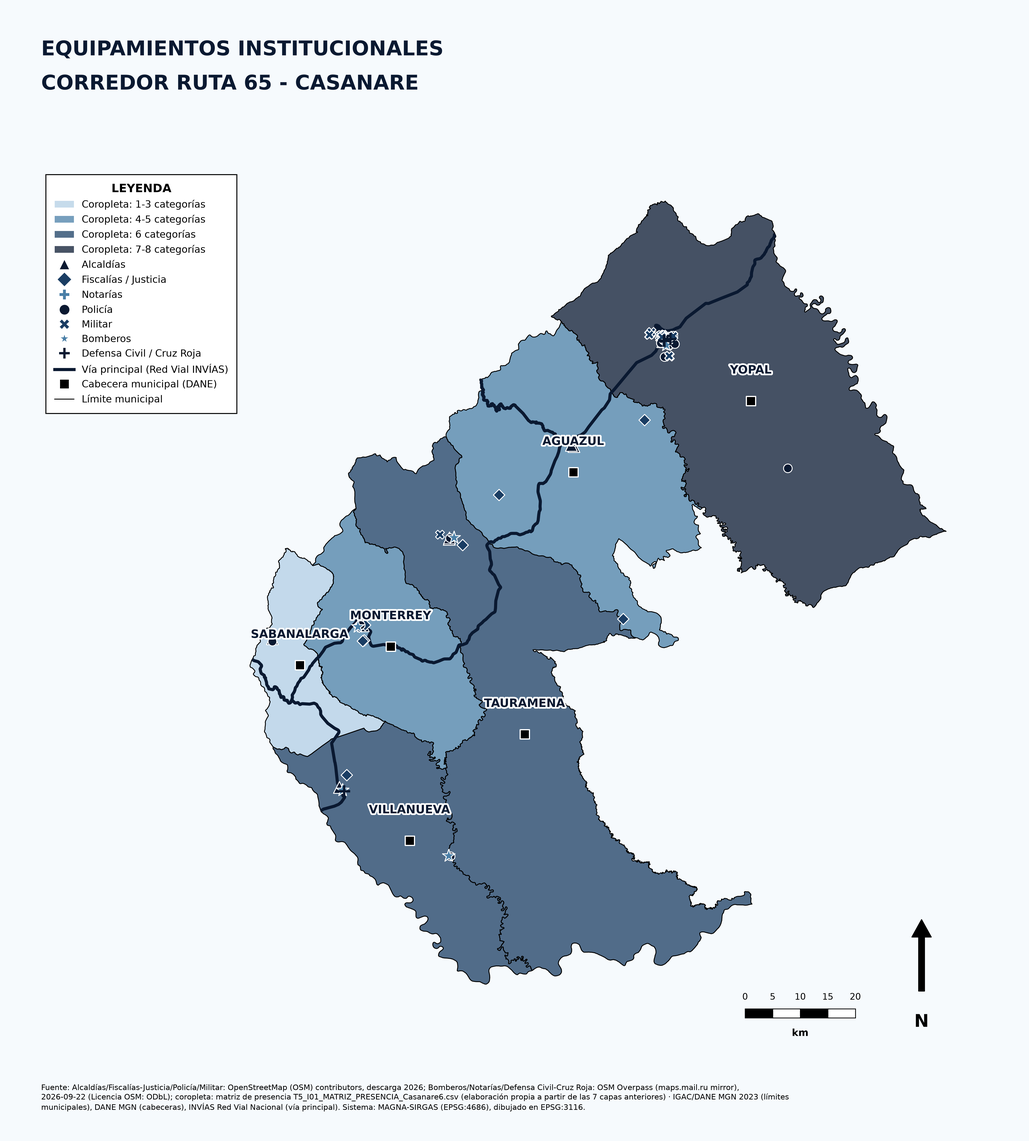
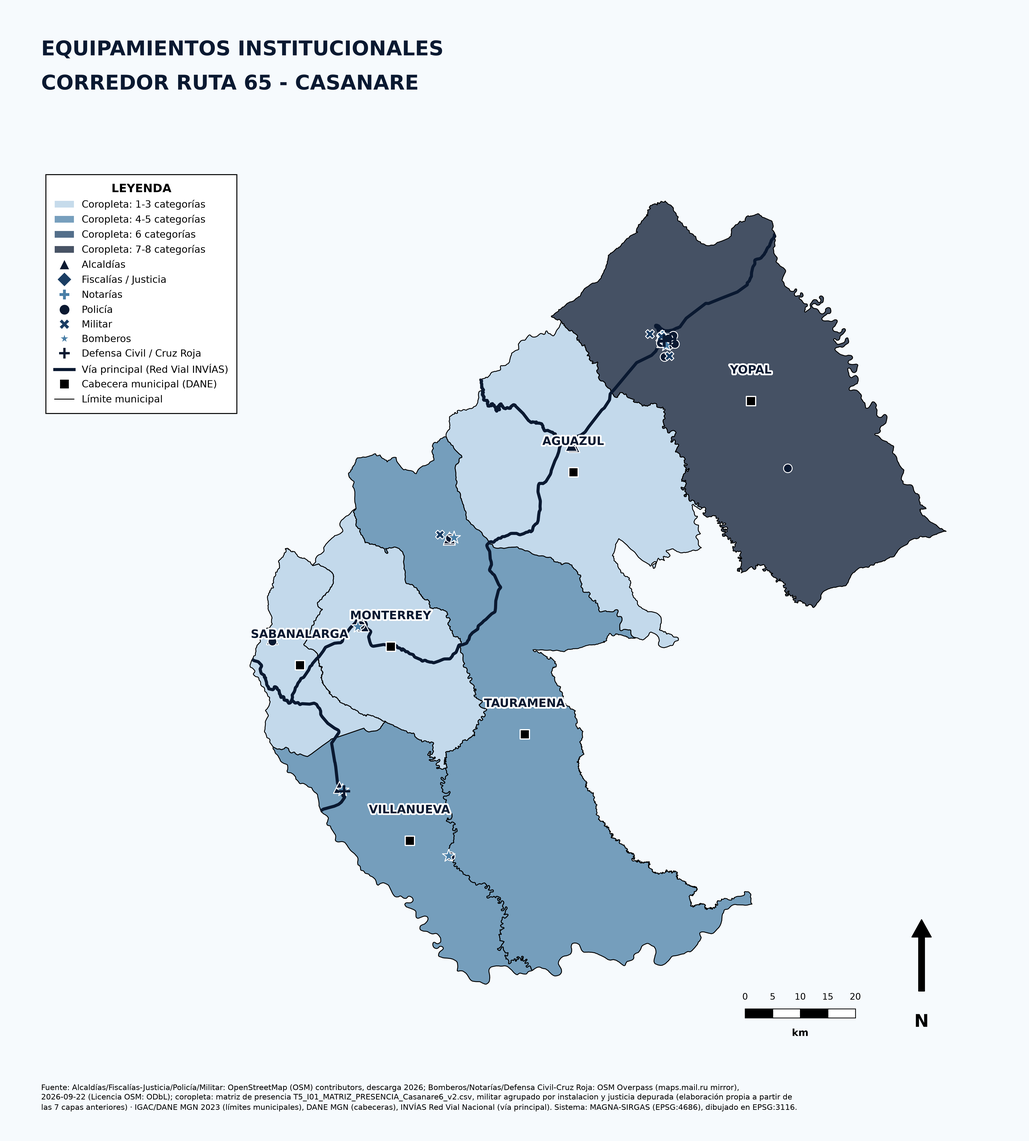
Depura terminales, militar y justicia en la lámina 05 y recalcula el índice de presencia

Changed region(s): [[0.2486, 0.2799, 0.7459, 0.8707], [0.6216, 0.2799, 0.6527, 0.311]]

diff --git a/index.html b/index.html
@@ -983,7 +983,7 @@ html,body{max-width:100%;overflow-x:clip}
       <div class="lamina-title">
         <span class="label">Lámina 05 · Índice de presencia · 8 categorías</span>
         <h2 id="t5-h">Equipamientos Institucionales</h2>
-        <p class="lamina-lede">Yopal es el único municipio con las 8 categorías institucionales; Aguazul, segunda población del corredor, no tiene bomberos, notaría, Defensa Civil ni presencia militar mapeada.</p>
+        <p class="lamina-lede">Yopal es el único municipio con las 8 categorías institucionales; solo Yopal tiene sedes de justicia mapeadas y solo Yopal y Aguazul tienen terminal terrestre; Aguazul, segunda población del corredor, no tiene justicia, bomberos, notaría, Defensa Civil ni presencia militar mapeada.</p>
       </div>
       <div class="north" aria-hidden="true"><svg viewBox="0 0 34 46" fill="none" stroke="currentColor" stroke-width="1.2"><circle cx="17" cy="28" r="14"/><path d="M17 6 L24 34 L17 29 L10 34 Z" fill="currentColor" stroke="none" opacity=".15"/><path d="M17 6 L24 34 L17 29 Z" fill="currentColor"/><path d="M17 6 L10 34 L17 29 Z"/><path d="M17 12v32M3 28h28" stroke-width=".6" stroke-dasharray="2 2"/></svg><span>N</span></div>
       <div class="lamina-num" aria-label="Lámina 5 de 8"><span class="ln-k">LÁMINA · CÓDIGO</span><span class="ln-n">05</span><span class="ln-c"><b>PL.05</b><span>RUTA65-CAS</span><span>/ 08</span></span></div>
@@ -992,8 +992,8 @@ html,body{max-width:100%;overflow-x:clip}
     <div class="lamina-body">
       <figure class="plate plate--map">
         <div class="plate-tag"><span class="label">Mapa · Equipamientos institucionales</span><span class="code">M-05</span></div>
-        <div class="plate-img"><img src="mapas/Institucional.png" width="4440" height="4920" alt="Mapa de equipamientos institucionales" loading="lazy"></div>
-        <figcaption>Alcaldías, justicia, policía, bomberos, militar y terminales</figcaption>
+        <div class="plate-img"><img src="mapas/Institucional.png?v=2" width="4440" height="4920" alt="Mapa de equipamientos institucionales" loading="lazy"></div>
+        <figcaption>Alcaldías, justicia, policía, bomberos y militar (por instalación); coropleta con 8 categorías</figcaption>
       </figure>
 
       <aside class="lamina-side">
@@ -1003,15 +1003,16 @@ html,body{max-width:100%;overflow-x:clip}
             <span class="stat-val">1.00</span>
             <span class="stat-lbl"><b>Yopal:</b> índice de presencia institucional (0 a 1) — tiene <b>las 8 de 8 categorías</b> = 8 ÷ 8</span>
           </div>
-          <div class="stat"><span class="stat-val">0.50</span><span class="stat-lbl"><b>Aguazul:</b> índice de presencia (0 a 1) — 4 de 8 categorías</span></div>
-          <div class="stat"><span class="stat-val">0.38</span><span class="stat-lbl"><b>Sabanalarga:</b> índice de presencia (0 a 1) — 3 de 8 categorías</span></div>
+          <div class="stat"><span class="stat-val">0.38</span><span class="stat-lbl"><b>Aguazul:</b> índice de presencia (0 a 1) — 3 de 8 categorías</span></div>
+          <div class="stat"><span class="stat-val">0.25</span><span class="stat-lbl"><b>Sabanalarga:</b> índice de presencia (0 a 1) — 2 de 8 categorías</span></div>
           <div class="stat stat--wide"><span class="stat-lbl">Notaría georreferenciada en todo el corredor</span><span class="stat-val">1</span></div>
         </div>
         <div class="notes-block">
           <span class="label">Hallazgos</span>
           <ul class="notes">
-            <li>Sabanalarga solo tiene alcaldía, policía y terminal.</li>
-            <li>Villanueva y Tauramena comparten el segundo lugar (0.75, 6 categorías).</li>
+            <li>Sabanalarga solo tiene alcaldía y policía.</li>
+            <li>Villanueva y Tauramena comparten el segundo lugar (0.50, 4 categorías).</li>
+            <li>Terminales: 3 terrestres (Yopal 2, Aguazul 1) tras depurar 33 registros OSM; los 27 aeródromos y pistas quedan fuera de la matriz. Militar: 4 instalaciones (Yopal 3), no 29 geometrías. Justicia: 3 sedes (todas en Yopal); los otros 31 registros OSM eran restaurantes, tiendas naturistas, colegios, etc.</li>
           </ul>
         </div>
       </aside>
@@ -1020,7 +1021,7 @@ html,body{max-width:100%;overflow-x:clip}
         <div class="plate-tag"><span class="label">Gráfica · Presencia institucional</span><span class="code">G-05</span></div>
         <div class="plate-charts" data-set="institucional">
         <div class="chart-panel chart-panel--tall"><h3 class="chart-title">Equipamientos por municipio y tipo (apilado)</h3><div class="chart-box"><canvas id="c-i1" role="img" aria-label="Equipamientos por municipio y tipo (apilado)"></canvas></div></div>
-        <div class="chart-panel chart-panel--tall"><h3 class="chart-title">Composición por tipo — total corredor (n=131)</h3><div class="chart-box"><canvas id="c-i2" role="img" aria-label="Composición por tipo — total corredor (n=131)"></canvas></div></div>
+        <div class="chart-panel chart-panel--tall"><h3 class="chart-title">Composición por tipo — total corredor (n=45)</h3><div class="chart-box"><canvas id="c-i2" role="img" aria-label="Composición por tipo — total corredor (n=45)"></canvas></div></div>
         <div class="chart-panel chart-panel--matrix"><h3 class="chart-title">Matriz de presencia/ausencia por tipo</h3><div class="chart-matrix" id="c-i3"></div></div>
         <div class="chart-panel"><h3 class="chart-title">Índice de presencia por municipio (8 categorías)</h3><div class="chart-box"><canvas id="c-i4" role="img" aria-label="Índice de presencia por municipio (8 categorías)"></canvas></div></div>
         </div>
@@ -1076,7 +1077,7 @@ html,body{max-width:100%;overflow-x:clip}
           <div class="stat"><span class="stat-val">2.753</span><span class="stat-lbl">Siniestros: 637 con fallecidos, 2.116 con lesionados</span></div>
           <div class="stat"><span class="stat-val">57 %</span><span class="stat-lbl">De los siniestros, en Yopal</span></div>
           <div class="stat stat--wide"><span class="stat-lbl">Tramos de 1 km hot spot (Getis-Ord)</span><span class="stat-val">0 de 244</span></div>
-          <div class="stat stat--wide"><span class="stat-lbl">Aeródromos Aerocivil · terminales</span><span class="stat-val">2 · 33</span></div>
+          <div class="stat stat--wide"><span class="stat-lbl">Aeródromos Aerocivil · terminales terrestres</span><span class="stat-val">2 · 3</span></div>
         </div>
         <div class="notes-block">
           <span class="label">Hallazgos</span>
@@ -1330,10 +1331,10 @@ html,body{max-width:100%;overflow-x:clip}
       <h3 class="refs-h3" id="rf-6">05 · Equipamientos Institucionales</h3>
       <div class="rf-scroll" role="region" tabindex="0" aria-label="Tabla de fuentes: 05 · Equipamientos Institucionales"><table class="rf-table">
         <thead><tr><th scope="col">Dato / capa</th><th scope="col">Fuente (organismo)</th><th scope="col">Documento o dataset (+ID)</th><th scope="col">Año</th><th scope="col">Enlace</th></tr></thead><tbody>
-        <tr><td>Alcaldías, fiscalías/justicia, policía y militar (M-05, c-i1, c-i2)</td><td>OpenStreetMap contributors (© OpenStreetMap contributors, ODbL)</td><td>Extracción OSM (amenity=townhall/courthouse/police, military=*)</td><td class="rf-y">descarga 2026</td><td class="rf-l"><a href="https://overpass-api.de/" target="_blank" rel="noopener">Overpass API</a><br><a href="https://www.openstreetmap.org/copyright" target="_blank" rel="noopener">© OpenStreetMap contributors</a><br><a href="https://opendatacommons.org/licenses/odbl/" target="_blank" rel="noopener">Licencia ODbL 1.0</a></td></tr>
+        <tr><td>Alcaldías, fiscalías/justicia, policía y militar (M-05, c-i1, c-i2)</td><td>OpenStreetMap contributors (© OpenStreetMap contributors, ODbL)</td><td>Extracción OSM (amenity=townhall/courthouse/police, military=*); militar agrupado en 4 instalaciones (29 geometrías OSM); justicia depurada a 3 sedes amenity=courthouse (34 registros)</td><td class="rf-y">descarga 2026</td><td class="rf-l"><a href="https://overpass-api.de/" target="_blank" rel="noopener">Overpass API</a><br><a href="https://www.openstreetmap.org/copyright" target="_blank" rel="noopener">© OpenStreetMap contributors</a><br><a href="https://opendatacommons.org/licenses/odbl/" target="_blank" rel="noopener">Licencia ODbL 1.0</a></td></tr>
         <tr><td>Bomberos, notarías (1 en el corredor), Defensa Civil/Cruz Roja</td><td>OpenStreetMap contributors (© OpenStreetMap contributors, ODbL)</td><td>Overpass API, mirror maps.mail.ru</td><td class="rf-y">2026-09-22</td><td class="rf-l"><a href="https://overpass-api.de/" target="_blank" rel="noopener">Overpass API</a><br><a href="https://www.openstreetmap.org/copyright" target="_blank" rel="noopener">© OpenStreetMap contributors</a><br><a href="https://opendatacommons.org/licenses/odbl/" target="_blank" rel="noopener">Licencia ODbL 1.0</a></td></tr>
-        <tr><td>Terminales de transporte (33)</td><td>OpenStreetMap contributors (© OpenStreetMap contributors, ODbL)</td><td>INFRA_TRANSPORTE_OSM_Casanare6.shp (Overpass)</td><td class="rf-y">2026</td><td class="rf-l"><a href="https://overpass-api.de/" target="_blank" rel="noopener">Overpass API</a><br><a href="https://www.openstreetmap.org/copyright" target="_blank" rel="noopener">© OpenStreetMap contributors</a></td></tr>
-        <tr><td>c-i3 matriz de presencia y c-i4 índice (Yopal 1.00; Sabanalarga 0.38)</td><td>Elaboración propia</td><td>T5_I01_MATRIZ_PRESENCIA_Casanare6.csv sobre las 8 capas anteriores</td><td class="rf-y">2026</td><td class="rf-l"><span class="rf-nd">sin enlace</span></td></tr>
+        <tr><td>Terminales de transporte terrestre (3 instalaciones, depuradas de 33 registros OSM: 27 aeródromos/pistas excluidos y 6 puntos terrestres fusionados a &lt;300 m)</td><td>OpenStreetMap contributors (© OpenStreetMap contributors, ODbL)</td><td>INFRA_TRANSPORTE_OSM_Casanare6.shp (Overpass)</td><td class="rf-y">2026</td><td class="rf-l"><a href="https://overpass-api.de/" target="_blank" rel="noopener">Overpass API</a><br><a href="https://www.openstreetmap.org/copyright" target="_blank" rel="noopener">© OpenStreetMap contributors</a></td></tr>
+        <tr><td>c-i3 matriz de presencia y c-i4 índice (Yopal 1.00; Sabanalarga 0.25)</td><td>Elaboración propia</td><td>T5_I01_MATRIZ_PRESENCIA_Casanare6_v2.csv sobre las 8 capas anteriores</td><td class="rf-y">2026</td><td class="rf-l"><span class="rf-nd">sin enlace</span></td></tr>
       </tbody></table></div>
       <h3 class="refs-h3" id="rf-7">06 · Transporte</h3>
       <div class="rf-scroll" role="region" tabindex="0" aria-label="Tabla de fuentes: 06 · Transporte"><table class="rf-table">
@@ -1341,7 +1342,7 @@ html,body{max-width:100%;overflow-x:clip}
         <tr><td>Mapa M-06, c-t1, c-t2, c-t3: 2.753 siniestros (637 con fallecidos; −67 % 2019→2025; 57 % en Yopal)</td><td>Agencia Nacional de Seguridad Vial (ANSV) – Observatorio Nacional de Seguridad Vial</td><td>Feature Service «Siniestros_ML_2016_2025», capa 1 (cuenta ArcGIS Online onsv.ansv), filtrado por DIVIPOLA</td><td class="rf-y">2016–2025/26 · consulta 2026-09-22</td><td class="rf-l"><a href="https://services9.arcgis.com/cCK0fP0sWCjveNe8/arcgis/rest/services/Siniestros_ML_2016_2025/FeatureServer/1" target="_blank" rel="noopener">Siniestros_ML_2016_2025 / FeatureServer/1</a><br><a href="https://www.arcgis.com/sharing/rest/search?q=owner:onsv.ansv&amp;f=json" target="_blank" rel="noopener">Catálogo ArcGIS Online onsv.ansv</a></td></tr>
         <tr><td>Tramos hot spot: 0 de 244 (Getis-Ord Gi*)</td><td>Elaboración propia</td><td>Getis-Ord Gi* con PySAL esda sobre tramos de 1 km de la vía INVÍAS</td><td class="rf-y">2026</td><td class="rf-l"><a href="https://pysal.org/esda/" target="_blank" rel="noopener">PySAL esda (Getis-Ord Gi*)</a></td></tr>
         <tr><td>Aeródromos Aerocivil (2)</td><td>Aerocivil + OpenStreetMap contributors (© OpenStreetMap contributors, ODbL)</td><td>Transporte Aéreo Comercial – Tráfico Origen-Destino (ID gb6w-ynu4) para identidad OACI/IATA; geometría OSM</td><td class="rf-y">2020–2026</td><td class="rf-l"><a href="https://www.datos.gov.co/d/gb6w-ynu4" target="_blank" rel="noopener">datos.gov.co/d/gb6w-ynu4</a><br><a href="https://www.openstreetmap.org/copyright" target="_blank" rel="noopener">© OpenStreetMap contributors</a></td></tr>
-        <tr><td>Terminales / puntos de transporte (33)</td><td>OpenStreetMap contributors (© OpenStreetMap contributors, ODbL)</td><td>INFRA_TRANSPORTE_OSM_Casanare6.shp</td><td class="rf-y">2026</td><td class="rf-l"><a href="https://overpass-api.de/" target="_blank" rel="noopener">Overpass API</a><br><a href="https://www.openstreetmap.org/copyright" target="_blank" rel="noopener">© OpenStreetMap contributors</a><br><a href="https://opendatacommons.org/licenses/odbl/" target="_blank" rel="noopener">Licencia ODbL 1.0</a></td></tr>
+        <tr><td>Puntos de transporte OSM (33: 27 aeródromos/pistas + 6 registros de 3 terminales terrestres)</td><td>OpenStreetMap contributors (© OpenStreetMap contributors, ODbL)</td><td>INFRA_TRANSPORTE_OSM_Casanare6.shp</td><td class="rf-y">2026</td><td class="rf-l"><a href="https://overpass-api.de/" target="_blank" rel="noopener">Overpass API</a><br><a href="https://www.openstreetmap.org/copyright" target="_blank" rel="noopener">© OpenStreetMap contributors</a><br><a href="https://opendatacommons.org/licenses/odbl/" target="_blank" rel="noopener">Licencia ODbL 1.0</a></td></tr>
         <tr><td>c-t4 distancias entre cabeceras (18.6–157.4 km)</td><td>Elaboración propia sobre INVÍAS + DANE</td><td>MATRIZ_OD_NODOS_Casanare6.csv: ruta más corta (networkx) sobre Red Vial INVÍAS, 60 km/h supuesto; nodos DANE Divipola (ver advertencia)</td><td class="rf-y">2026</td><td class="rf-l"><a href="https://hermes.invias.gov.co/arcgis/rest/services/OpenData/ServiciosOpenData/FeatureServer/0" target="_blank" rel="noopener">INVÍAS OpenData/ServiciosOpenData FeatureServer/0</a><br><a href="https://geoportal.dane.gov.co/servicios/descarga-y-metadatos/datos-geoestadisticos/" target="_blank" rel="noopener">Geoportal DANE · datos geoestadísticos (MGN)</a></td></tr>
       </tbody></table></div>
       <h3 class="refs-h3" id="rf-8">07 · Vías</h3>
@@ -1422,7 +1423,7 @@ html,body{max-width:100%;overflow-x:clip}
    de ENTREGA_25_SEP_2026 (ver hacer_graficas.py de cada carpeta). */
 (function(){
   if(!window.Chart) return;
-  var DATA = {"general": {"mun": ["Yopal", "Aguazul", "Villanueva", "Tauramena", "Monterrey", "Sabanalarga"], "cats": ["ABASTECIMIENTO", "BIENESTAR", "CULTO", "CULTURAL", "DEPORTIVO", "EDUCACION", "INSTITUCIONAL", "SALUD", "SEGURIDAD", "TRANSPORTE"], "stack": {"ABASTECIMIENTO": [27, 1, 1, 2, 0, 0], "BIENESTAR": [34, 15, 20, 11, 13, 3], "CULTO": [15, 4, 2, 1, 2, 2], "CULTURAL": [24, 7, 10, 5, 3, 5], "DEPORTIVO": [119, 33, 38, 41, 13, 8], "EDUCACION": [140, 48, 16, 24, 12, 8], "INSTITUCIONAL": [26, 5, 2, 3, 6, 1], "SALUD": [95, 9, 11, 5, 9, 1], "SEGURIDAD": [30, 1, 4, 3, 2, 1], "TRANSPORTE": [13, 10, 6, 1, 2, 1]}, "comp": [["DEPORTIVO", 252], ["EDUCACION", 248], ["SALUD", 130], ["BIENESTAR", 96], ["CULTURAL", 54], ["INSTITUCIONAL", 43], ["SEGURIDAD", 41], ["TRANSPORTE", 33], ["ABASTECIMIENTO", 31], ["CULTO", 26]], "total": 954, "urb": [428, 80, 85, 67, 46, 23], "rur": [95, 53, 25, 29, 16, 7], "tasa": [1.9, 2.06, 1.23, 1.66, 1.89, 3.94], "prom": 2.11}, "educacion": {"mun": ["Yopal", "Aguazul", "Monterrey", "Sabanalarga", "Tauramena", "Villanueva"], "sedes": [143, 51, 14, 13, 28, 21], "cob": [97.77, 89.82, 84.08, 75.0, 92.61, 95.81], "pob": [36954, 8111, 3776, 744, 5726, 8112], "sector": [["Oficial", 196], ["No oficial", 74]], "zona": [["Rural", 153], ["Urbana", 117]], "anios": [2018, 2019, 2020, 2021, 2022, 2023, 2024, 2025, 2026], "serie": {"Yopal": [168427, 173316, 178549, 182573, 185962, 189187, 192468, 195600, 198423], "Aguazul": [36916, 37507, 38174, 38537, 38790, 38978, 39218, 39364, 39480], "Monterrey": [17521, 17858, 18215, 18428, 18576, 18706, 18836, 18955, 19042], "Sabanalarga": [3634, 3678, 3735, 3786, 3783, 3811, 3836, 3855, 3882], "Tauramena": [23525, 24050, 24635, 25009, 25334, 25625, 25904, 26170, 26371], "Villanueva": [35313, 36416, 37579, 38521, 39322, 40090, 40889, 41658, 42337]}}, "salud": {"mun": ["Yopal", "Tauramena", "Aguazul", "Sabanalarga", "Monterrey", "Villanueva"], "sedes": [5.97, 1.81, 2.36, 2.39, 5.0, 2.9], "camas": [5.06, 2.1, 1.37, 0.95, 0.5, 0.36], "accMun": ["Sabanalarga", "Villanueva", "Yopal", "Monterrey", "Aguazul", "Tauramena"], "acc": [11.44, 10.93, 9.78, 9.14, 8.1, 3.33], "nat": [["Privada", 127], ["Sin dato", 18], ["Pública", 12]], "anios": ["2017", "2018", "2019", "2020", "2022"], "serie": [["Camas adultos", [260, 287, 283, 274, 335]], ["Camas UCI adulto", [17, 17, 17, 26, 0]], ["Camas obstetricia", [50, 64, 63, 67, 0]], ["Salas de quirófano", [15, 16, 16, 15, 0]]]}, "sociales": {"mun": ["Yopal", "Aguazul", "Monterrey", "Sabanalarga", "Tauramena", "Villanueva"], "cats": ["BIBLIOTECA", "CENTRO_CULT", "CULTO", "DEPORTIVO", "MUSEO", "TEATRO"], "stack": {"BIBLIOTECA": [8, 1, 2, 2, 2, 3], "CENTRO_CULT": [8, 5, 2, 3, 2, 7], "CULTO": [15, 4, 2, 2, 1, 2], "DEPORTIVO": [120, 33, 13, 8, 41, 38], "MUSEO": [3, 0, 0, 0, 0, 0], "TEATRO": [9, 2, 0, 0, 2, 0]}, "tasa": [10.386, 13.456, 12.814, 49.245, 22.11, 15.759], "comp": [["DEPORTIVO", 253], ["CENTRO_CULT", 27], ["CULTO", 26], ["BIBLIOTECA", 18], ["TEATRO", 13], ["MUSEO", 3]], "total": 340, "geo": [34, 15, 13, 4, 11, 20], "ofi": [1, 0, 0, 0, 0, 0]}, "institucional": {"mun": ["Yopal", "Villanueva", "Tauramena", "Monterrey", "Aguazul", "Sabanalarga"], "tipos": ["Alcaldías", "Notarías", "Fiscalías / justicia", "Policía", "Bomberos", "Defensa Civil / Cruz Roja", "Militar", "Terminales transporte"], "mat": [[1, 1, 24, 11, 1, 3, 28, 13], [1, 0, 1, 1, 2, 1, 0, 6], [3, 0, 1, 1, 1, 0, 1, 1], [1, 0, 5, 1, 1, 0, 0, 2], [2, 0, 3, 1, 0, 0, 0, 10], [1, 0, 0, 1, 0, 0, 0, 1]], "tot": [["Alcaldías", 9], ["Notarías", 1], ["Fiscalías / justicia", 34], ["Policía", 16], ["Bomberos", 5], ["Defensa Civil / Cruz Roja", 4], ["Militar", 29], ["Terminales transporte", 33]], "idx": [1.0, 0.75, 0.75, 0.625, 0.5, 0.375], "ncat": [8, 6, 6, 5, 4, 3]}, "transporte": {"anios": ["2016", "2017", "2018", "2019", "2020", "2021", "2022", "2023", "2024", "2025"], "sin": [368, 395, 334, 419, 236, 193, 285, 173, 157, 140], "mun": ["Yopal", "Aguazul", "Monterrey", "Sabanalarga", "Tauramena", "Villanueva"], "fal": [346, 107, 48, 11, 44, 72], "les": [1190, 347, 106, 14, 226, 189], "grav": [["Lesionado", 2116], ["Fallecido", 637]], "od": [["Monterrey - Tauramena", 18.57], ["Sabanalarga - Villanueva", 37.83], ["Monterrey - Sabanalarga", 40.84], ["Yopal - Aguazul", 42.13], ["Aguazul - Tauramena", 42.27], ["Monterrey - Villanueva", 54.44], ["Sabanalarga - Tauramena", 59.42], ["Aguazul - Monterrey", 60.84], ["Tauramena - Villanueva", 73.01], ["Yopal - Tauramena", 84.39], ["Aguazul - Sabanalarga", 101.68], ["Yopal - Monterrey", 102.96], ["Aguazul - Villanueva", 115.27], ["Yopal - Sabanalarga", 143.81], ["Yopal - Villanueva", 157.4]]}, "vias": {"lab": ["sep 2015", "oct 2015", "nov 2015", "dic 2015", "ene 2016", "feb 2016", "mar 2016", "abr 2016", "may 2016", "jun 2016", "jul 2016", "ago 2016", "sep 2016", "oct 2016", "nov 2016", "dic 2016", "ene 2017", "feb 2017", "mar 2017", "abr 2017", "may 2017", "jun 2017", "jul 2017", "ago 2017", "sep 2017", "oct 2017", "nov 2017", "dic 2017", "ene 2018", "feb 2018", "mar 2018", "abr 2018", "may 2018", "jun 2018", "jul 2018", "ago 2018", "sep 2018", "oct 2018", "nov 2018", "dic 2018", "ene 2019", "feb 2019", "mar 2019", "abr 2019", "may 2019", "jun 2019", "jul 2019", "ago 2019", "sep 2019", "oct 2019", "nov 2019", "dic 2019", "ene 2020", "feb 2020", "mar 2020", "abr 2020", "may 2020", "jun 2020", "jul 2020", "ago 2020", "sep 2020", "oct 2020", "nov 2020", "dic 2020", "ene 2021", "feb 2021", "mar 2021", "abr 2021", "may 2021", "jun 2021", "jul 2021", "ago 2021", "sep 2021", "oct 2021", "nov 2021", "dic 2021", "ene 2022", "feb 2022", "mar 2022", "abr 2022", "may 2022", "jun 2022", "jul 2022", "ago 2022", "sep 2022", "oct 2022", "nov 2022", "dic 2022", "ene 2023", "feb 2023", "mar 2023", "abr 2023", "may 2023", "jun 2023", "jul 2023", "ago 2023", "sep 2023", "oct 2023", "nov 2023", "dic 2023", "ene 2024", "feb 2024", "mar 2024", "abr 2024", "may 2024", "jun 2024", "jul 2024", "ago 2024", "sep 2024", "oct 2024", "nov 2024", "dic 2024", "ene 2025", "feb 2025", "mar 2025", "abr 2025", "may 2025", "jun 2025", "jul 2025", "ago 2025", "sep 2025", "oct 2025", "nov 2025", "dic 2025", "ene 2026", "feb 2026", "mar 2026", "abr 2026", "may 2026"], "traf": [59001, 79698, 75140, 85309, 84610, 65099, 73902, 65222, 67849, 69524, 70482, 73966, 66307, 72980, 71108, 82974, 83976, 63578, 72939, 76583, 76406, 75465, 75346, 83614, 81354, 77310, 75402, 87271, 86278, 66446, 75815, 71901, 76676, 76100, 80477, 87307, 77036, 79857, 78618, 90917, 92991, 69052, 79612, 82185, 86286, 128727, 146756, 140445, 108968, 84939, 72829, 79803, 77506, 57630, 49688, 26342, 32915, 36799, 43970, 43280, 49943, 52175, 52758, 61635, 60873, 48611, 54751, 50400, 30839, 50787, 55609, 61334, 55484, 61266, 71415, 83117, 85146, 59599, 69824, 76316, 78041, 80580, 86240, 85022, 78704, 86670, 82919, 95351, 100883, 76432, 83599, 83634, 79714, 83528, 119810, 117083, 94960, 93962, 91764, 108044, 110607, 78216, 89111, 87075, 91520, 94825, 104358, 104553, 91350, 98788, 94294, 104707, 113088, 83704, 92100, 99432, 91585, 86423, 87406, 99413, 112850, 106097, 92882, 105354, 31913, 74874, 88555, 85609, 86283], "comp": [["Autos", 60.83], ["Buses", 2.65], ["Camiones", 36.51]], "kmMun": ["Aguazul", "Yopal"], "km": {"Bueno": [4.35, 24.96], "Regular": [16.55, 10.84], "Malo": [6.59, 0.0]}, "vc": [["Tramo 65130", "Yopal - Paz de Ariporo", 4527.0, 0.201, "B"], ["Tramo 65110", "Barranca de Upía - Monterrey", 3138.9, 0.144, "A"]]}, "ep": {"mun": ["Yopal", "Aguazul", "Monterrey", "Sabanalarga", "Tauramena", "Villanueva"], "bruto": [6.647, 195.725, 48.712, 272.569, 80.014, 14.797], "cons": [3.292, 7.679, 27.803, 62.854, 11.046, 4.771], "fun": [["Escenario", 68.86], ["Parque", 1189.13], ["Ronda hídrica", 141.9]], "a300": [58.52, 43.48, 46.83, 69.93, 78.69, 74.77], "a500": [75.68, 51.69, 67.68, 96.72, 86.57, 89.18], "km": [18.52, 3.85, 0.16, 0.68, 1.08, 2.19]}};
+  var DATA = {"general": {"mun": ["Yopal", "Aguazul", "Villanueva", "Tauramena", "Monterrey", "Sabanalarga"], "cats": ["ABASTECIMIENTO", "BIENESTAR", "CULTO", "CULTURAL", "DEPORTIVO", "EDUCACION", "INSTITUCIONAL", "SALUD", "SEGURIDAD", "TRANSPORTE"], "stack": {"ABASTECIMIENTO": [27, 1, 1, 2, 0, 0], "BIENESTAR": [34, 15, 20, 11, 13, 3], "CULTO": [15, 4, 2, 1, 2, 2], "CULTURAL": [24, 7, 10, 5, 3, 5], "DEPORTIVO": [119, 33, 38, 41, 13, 8], "EDUCACION": [140, 48, 16, 24, 12, 8], "INSTITUCIONAL": [26, 5, 2, 3, 6, 1], "SALUD": [95, 9, 11, 5, 9, 1], "SEGURIDAD": [30, 1, 4, 3, 2, 1], "TRANSPORTE": [13, 10, 6, 1, 2, 1]}, "comp": [["DEPORTIVO", 252], ["EDUCACION", 248], ["SALUD", 130], ["BIENESTAR", 96], ["CULTURAL", 54], ["INSTITUCIONAL", 43], ["SEGURIDAD", 41], ["TRANSPORTE", 33], ["ABASTECIMIENTO", 31], ["CULTO", 26]], "total": 954, "urb": [428, 80, 85, 67, 46, 23], "rur": [95, 53, 25, 29, 16, 7], "tasa": [1.9, 2.06, 1.23, 1.66, 1.89, 3.94], "prom": 2.11}, "educacion": {"mun": ["Yopal", "Aguazul", "Monterrey", "Sabanalarga", "Tauramena", "Villanueva"], "sedes": [143, 51, 14, 13, 28, 21], "cob": [97.77, 89.82, 84.08, 75.0, 92.61, 95.81], "pob": [36954, 8111, 3776, 744, 5726, 8112], "sector": [["Oficial", 196], ["No oficial", 74]], "zona": [["Rural", 153], ["Urbana", 117]], "anios": [2018, 2019, 2020, 2021, 2022, 2023, 2024, 2025, 2026], "serie": {"Yopal": [168427, 173316, 178549, 182573, 185962, 189187, 192468, 195600, 198423], "Aguazul": [36916, 37507, 38174, 38537, 38790, 38978, 39218, 39364, 39480], "Monterrey": [17521, 17858, 18215, 18428, 18576, 18706, 18836, 18955, 19042], "Sabanalarga": [3634, 3678, 3735, 3786, 3783, 3811, 3836, 3855, 3882], "Tauramena": [23525, 24050, 24635, 25009, 25334, 25625, 25904, 26170, 26371], "Villanueva": [35313, 36416, 37579, 38521, 39322, 40090, 40889, 41658, 42337]}}, "salud": {"mun": ["Yopal", "Tauramena", "Aguazul", "Sabanalarga", "Monterrey", "Villanueva"], "sedes": [5.97, 1.81, 2.36, 2.39, 5.0, 2.9], "camas": [5.06, 2.1, 1.37, 0.95, 0.5, 0.36], "accMun": ["Sabanalarga", "Villanueva", "Yopal", "Monterrey", "Aguazul", "Tauramena"], "acc": [11.44, 10.93, 9.78, 9.14, 8.1, 3.33], "nat": [["Privada", 127], ["Sin dato", 18], ["Pública", 12]], "anios": ["2017", "2018", "2019", "2020", "2022"], "serie": [["Camas adultos", [260, 287, 283, 274, 335]], ["Camas UCI adulto", [17, 17, 17, 26, 0]], ["Camas obstetricia", [50, 64, 63, 67, 0]], ["Salas de quirófano", [15, 16, 16, 15, 0]]]}, "sociales": {"mun": ["Yopal", "Aguazul", "Monterrey", "Sabanalarga", "Tauramena", "Villanueva"], "cats": ["BIBLIOTECA", "CENTRO_CULT", "CULTO", "DEPORTIVO", "MUSEO", "TEATRO"], "stack": {"BIBLIOTECA": [8, 1, 2, 2, 2, 3], "CENTRO_CULT": [8, 5, 2, 3, 2, 7], "CULTO": [15, 4, 2, 2, 1, 2], "DEPORTIVO": [120, 33, 13, 8, 41, 38], "MUSEO": [3, 0, 0, 0, 0, 0], "TEATRO": [9, 2, 0, 0, 2, 0]}, "tasa": [10.386, 13.456, 12.814, 49.245, 22.11, 15.759], "comp": [["DEPORTIVO", 253], ["CENTRO_CULT", 27], ["CULTO", 26], ["BIBLIOTECA", 18], ["TEATRO", 13], ["MUSEO", 3]], "total": 340, "geo": [34, 15, 13, 4, 11, 20], "ofi": [1, 0, 0, 0, 0, 0]}, "institucional": {"mun": ["Yopal", "Villanueva", "Tauramena", "Monterrey", "Aguazul", "Sabanalarga"], "tipos": ["Alcaldías", "Notarías", "Fiscalías / justicia", "Policía", "Bomberos", "Defensa Civil / Cruz Roja", "Militar", "Terminales terrestres"], "mat": [[1, 1, 3, 11, 1, 3, 3, 2], [1, 0, 0, 1, 2, 1, 0, 0], [3, 0, 0, 1, 1, 0, 1, 0], [1, 0, 0, 1, 1, 0, 0, 0], [2, 0, 0, 1, 0, 0, 0, 1], [1, 0, 0, 1, 0, 0, 0, 0]], "tot": [["Alcaldías", 9], ["Notarías", 1], ["Fiscalías / justicia", 3], ["Policía", 16], ["Bomberos", 5], ["Defensa Civil / Cruz Roja", 4], ["Militar", 4], ["Terminales terrestres", 3]], "idx": [1.0, 0.5, 0.5, 0.375, 0.375, 0.25], "ncat": [8, 4, 4, 3, 3, 2]}, "transporte": {"anios": ["2016", "2017", "2018", "2019", "2020", "2021", "2022", "2023", "2024", "2025"], "sin": [368, 395, 334, 419, 236, 193, 285, 173, 157, 140], "mun": ["Yopal", "Aguazul", "Monterrey", "Sabanalarga", "Tauramena", "Villanueva"], "fal": [346, 107, 48, 11, 44, 72], "les": [1190, 347, 106, 14, 226, 189], "grav": [["Lesionado", 2116], ["Fallecido", 637]], "od": [["Monterrey - Tauramena", 18.57], ["Sabanalarga - Villanueva", 37.83], ["Monterrey - Sabanalarga", 40.84], ["Yopal - Aguazul", 42.13], ["Aguazul - Tauramena", 42.27], ["Monterrey - Villanueva", 54.44], ["Sabanalarga - Tauramena", 59.42], ["Aguazul - Monterrey", 60.84], ["Tauramena - Villanueva", 73.01], ["Yopal - Tauramena", 84.39], ["Aguazul - Sabanalarga", 101.68], ["Yopal - Monterrey", 102.96], ["Aguazul - Villanueva", 115.27], ["Yopal - Sabanalarga", 143.81], ["Yopal - Villanueva", 157.4]]}, "vias": {"lab": ["sep 2015", "oct 2015", "nov 2015", "dic 2015", "ene 2016", "feb 2016", "mar 2016", "abr 2016", "may 2016", "jun 2016", "jul 2016", "ago 2016", "sep 2016", "oct 2016", "nov 2016", "dic 2016", "ene 2017", "feb 2017", "mar 2017", "abr 2017", "may 2017", "jun 2017", "jul 2017", "ago 2017", "sep 2017", "oct 2017", "nov 2017", "dic 2017", "ene 2018", "feb 2018", "mar 2018", "abr 2018", "may 2018", "jun 2018", "jul 2018", "ago 2018", "sep 2018", "oct 2018", "nov 2018", "dic 2018", "ene 2019", "feb 2019", "mar 2019", "abr 2019", "may 2019", "jun 2019", "jul 2019", "ago 2019", "sep 2019", "oct 2019", "nov 2019", "dic 2019", "ene 2020", "feb 2020", "mar 2020", "abr 2020", "may 2020", "jun 2020", "jul 2020", "ago 2020", "sep 2020", "oct 2020", "nov 2020", "dic 2020", "ene 2021", "feb 2021", "mar 2021", "abr 2021", "may 2021", "jun 2021", "jul 2021", "ago 2021", "sep 2021", "oct 2021", "nov 2021", "dic 2021", "ene 2022", "feb 2022", "mar 2022", "abr 2022", "may 2022", "jun 2022", "jul 2022", "ago 2022", "sep 2022", "oct 2022", "nov 2022", "dic 2022", "ene 2023", "feb 2023", "mar 2023", "abr 2023", "may 2023", "jun 2023", "jul 2023", "ago 2023", "sep 2023", "oct 2023", "nov 2023", "dic 2023", "ene 2024", "feb 2024", "mar 2024", "abr 2024", "may 2024", "jun 2024", "jul 2024", "ago 2024", "sep 2024", "oct 2024", "nov 2024", "dic 2024", "ene 2025", "feb 2025", "mar 2025", "abr 2025", "may 2025", "jun 2025", "jul 2025", "ago 2025", "sep 2025", "oct 2025", "nov 2025", "dic 2025", "ene 2026", "feb 2026", "mar 2026", "abr 2026", "may 2026"], "traf": [59001, 79698, 75140, 85309, 84610, 65099, 73902, 65222, 67849, 69524, 70482, 73966, 66307, 72980, 71108, 82974, 83976, 63578, 72939, 76583, 76406, 75465, 75346, 83614, 81354, 77310, 75402, 87271, 86278, 66446, 75815, 71901, 76676, 76100, 80477, 87307, 77036, 79857, 78618, 90917, 92991, 69052, 79612, 82185, 86286, 128727, 146756, 140445, 108968, 84939, 72829, 79803, 77506, 57630, 49688, 26342, 32915, 36799, 43970, 43280, 49943, 52175, 52758, 61635, 60873, 48611, 54751, 50400, 30839, 50787, 55609, 61334, 55484, 61266, 71415, 83117, 85146, 59599, 69824, 76316, 78041, 80580, 86240, 85022, 78704, 86670, 82919, 95351, 100883, 76432, 83599, 83634, 79714, 83528, 119810, 117083, 94960, 93962, 91764, 108044, 110607, 78216, 89111, 87075, 91520, 94825, 104358, 104553, 91350, 98788, 94294, 104707, 113088, 83704, 92100, 99432, 91585, 86423, 87406, 99413, 112850, 106097, 92882, 105354, 31913, 74874, 88555, 85609, 86283], "comp": [["Autos", 60.83], ["Buses", 2.65], ["Camiones", 36.51]], "kmMun": ["Aguazul", "Yopal"], "km": {"Bueno": [4.35, 24.96], "Regular": [16.55, 10.84], "Malo": [6.59, 0.0]}, "vc": [["Tramo 65130", "Yopal - Paz de Ariporo", 4527.0, 0.201, "B"], ["Tramo 65110", "Barranca de Upía - Monterrey", 3138.9, 0.144, "A"]]}, "ep": {"mun": ["Yopal", "Aguazul", "Monterrey", "Sabanalarga", "Tauramena", "Villanueva"], "bruto": [6.647, 195.725, 48.712, 272.569, 80.014, 14.797], "cons": [3.292, 7.679, 27.803, 62.854, 11.046, 4.771], "fun": [["Escenario", 68.86], ["Parque", 1189.13], ["Ronda hídrica", 141.9]], "a300": [58.52, 43.48, 46.83, 69.93, 78.69, 74.77], "a500": [75.68, 51.69, 67.68, 96.72, 86.57, 89.18], "km": [18.52, 3.85, 0.16, 0.68, 1.08, 2.19]}};
   var C = {d:'#0A1931', a:'#1A3D63', m:'#4A7FA7', b:'#B3CFE5', p:'#F6FAFD'};
   function rgba(h,a){var n=parseInt(h.slice(1),16);return 'rgba('+(n>>16&255)+','+(n>>8&255)+','+(n&255)+','+a+')';}
   /* Serie categórica: solo tonos de la paleta oficial, con variantes de opacidad cuando hay >4 series */

diff --git a/AUDITORIA_TERMINALES_MILITAR.md b/AUDITORIA_TERMINALES_MILITAR.md
@@ -1,0 +1,77 @@
+# Auditoría lámina 05: Terminales, Militar y Fiscalías/Justicia (2026-09-28)
+
+Script: `05_EQUIPAMIENTOS_INSTITUCIONALES\depurar_terminales_militar.py`. Los originales no se tocaron; los backups llevan el sufijo `.bak_antes_terminales`.
+Salidas nuevas: `Terminales_Terrestres_Casanare6_dedup.shp`, `Aerodromos_Pistas_Casanare6.shp`, `Militar_Casanare6_instalaciones.shp`, `Fiscalias_Justicia_Casanare6_depurado.shp`, `T5_I01_MATRIZ_PRESENCIA_Casanare6_v2.csv`, `GRAFICAS_Institucional_Casanare6_datos_v2.csv`, `hacer_mapa_final_v2.py` y `MAPA_FINAL_Institucional_Casanare6_v2.png` (copiado a `mapas/Institucional.png`).
+
+## Criterios
+- **Terminales de transporte terrestre**: solo SUBCATEG=TERMINAL_TERRESTRE (amenity=bus_station). Los puntos a menos de 300 m entre sí y en el mismo municipio se cuentan como una sola instalación. Los aeródromos, pistas y helipuertos (aeroway=aerodrome, 27) salen de la matriz. Se conservan en `Aerodromos_Pistas_Casanare6.shp` y en la columna `Aerodromos_Pistas_fuera_matriz`.
+- **Militar**: se cuenta la instalación, no cada geometría OSM. Los checkpoints, las oficinas sin nombre y las áreas de entrenamiento se integran al complejo al que pertenecen. Un checkpoint aislado no se cuenta.
+- **Fiscalías/Justicia**: solo amenity=courthouse. Se descartan restaurantes, tiendas naturistas, colegios, un pozo petrolero, un mirador, hoteles, un paradero y un parqueadero. Dos sedes a menos de 300 m se cuentan como un solo complejo.
+
+## Terminales: 33 registros → 3 instalaciones
+| Municipio | Antes | Aeródromos/pistas (fuera) | Terminales terrestres |
+|---|---|---|---|
+| Yopal | 13 | 10 | 2 |
+| Aguazul | 10 | 7 | 1 |
+| Villanueva | 6 | 6 | 0 |
+| Monterrey | 2 | 2 | 0 |
+| Sabanalarga | 1 | 1 | 0 |
+| Tauramena | 1 | 1 | 0 |
+
+Decisiones:
+- **Yopal**: se fusionan "Terminal de Transporte" (ID 28; -72.39068, 5.33525) y "Terminal Yopal" (ID 32; -72.39054, 5.33558), que están a unos 40 m. Se deja aparte "Nuevo Terminal de Transporte de Yopal" (ID 30; -72.42506, 5.31352), a unos 4,5 km: es otra instalación, en Llano Lindo. No se verificó si la terminal antigua sigue en operación.
+- **Aguazul**: se fusionan en 1 los IDs 25 "Terminal Aguazul" (-72.54993, 5.16888), 29 SIN_NOMBRE (-72.54978, 5.16860) y 31 "Terminal de Transportes Aguazul" (-72.54990, 5.16872), que están a menos de 35 m.
+- **Aeródromos excluidos (27)**:
+  - Yopal: Balmoral, Bamoruco, Marapaca, Germania, Los Cabros, Trompillos, Betania Runway, El Zamuro (con fixme "Not Present"), El Araguaney y El Alcaraván.
+  - Aguazul: El Moriche, El Porvenir, El Recreo, Fasca Main Base, Jamaica, La Gloria y Maríaangélica.
+  - Villanueva: Santa Barbara, Santa Helena, Colegial, Santa Helena de Upía, Soceagro y Villanueva (SKVN).
+  - Monterrey: La Florida y Las Tinieblas.
+  - Sabanalarga: Aguaclara.
+  - Tauramena: La Envidia.
+
+## Militar: 29 geometrías → 4 instalaciones
+| Instalación | Municipio | IDs de la capa fusionados |
+|---|---|---|
+| Brigada XVI (incluye Gaula Casanare, los controles Entradas/Salidas/Control del CRM y 8 oficinas) | Yopal | 1,2,3,18-27 (13) |
+| Fuerza Aérea, área militar del aeropuerto El Alcaraván (landuse=military, 5 oficinas y 1 training_area) | Yopal | 4,8-13 (7) |
+| Base de Telecomunicaciones EYP (3 geometrías "Telecommunications base", 1 base con nombre y 2 bases sin nombre) | Yopal | 6,7,14-17 (6) |
+| Batallón No 44 Ramón Nonato Pérez | Tauramena | 5 |
+| **Excluidos**: ID 28 "P.C - Comando Yopal" (military=checkpoint) e ID 29 (oficina sin nombre junto al 28) | Yopal | 28, 29 |
+
+Yopal pasa de 28 a 3 y Tauramena se mantiene en 1. La categoría sigue presente en los mismos municipios.
+
+## Fiscalías/Justicia: 34 → 3 (todas en Yopal)
+Se conservan: ID 5 "Palacio de justicia" + ID 32 "Juzgado Departamental" (a unos 110 m, se cuentan como un complejo), ID 33 "URI" e ID 34 "Antiguo palacio municipal" (courthouse).
+Se descartan 30 registros. Ejemplos:
+- Restaurantes: Mi Llanurita, Yurimar, Canaima.
+- 15 tiendas o centros naturistas.
+- Colegios: Inst. La Sabiduría, La Upamena.
+- Laguna Jurijuri (mirador), el pozo Curiara 1, Juriscoop (oficina financiera) y Seguridad Estelar (tienda).
+- Hotel y fincas turísticas, un paradero de colectivos y el "Parqueadero de Fiscalia".
+
+Como consecuencia, Aguazul (3 → 0), Monterrey (5 → 0), Tauramena (1 → 0) y Villanueva (1 → 0) pierden la categoría.
+
+## Matriz antes → después
+| Municipio | Fisc. | Militar | Term. | N cat. | Índice |
+|---|---|---|---|---|---|
+| Yopal | 24→3 | 28→3 | 13→2 | 8→8 | 1.000→1.000 |
+| Villanueva | 1→0 | 0 | 6→0 | 6→4 | 0.750→0.500 |
+| Tauramena | 1→0 | 1 | 1→0 | 6→4 | 0.750→0.500 |
+| Monterrey | 5→0 | 0 | 2→0 | 5→3 | 0.625→0.375 |
+| Aguazul | 3→0 | 0 | 10→1 | 4→3 | 0.500→0.375 |
+| Sabanalarga | 0 | 0 | 1→0 | 3→2 | 0.375→0.250 |
+
+El total del corredor en la gráfica c-i2 pasa de n=131 a n=45.
+
+## Cambios en index.html
+- Lámina 05: lede, pie de foto del mapa, cifras de Aguazul (0.38) y Sabanalarga (0.25), hallazgos, DATA.institucional (mat, tot, idx, ncat, rótulo "Terminales terrestres") y títulos n=45.
+- Lámina 06: la ficha "Aeródromos Aerocivil · terminales" pasa de 2 · 33 a 2 · 3.
+- Referencias: filas de terminales, militar, justicia e índice.
+- Mapa regenerado: Tauramena y Villanueva pasan de la clase "6 categorías" a "4-5"; Aguazul y Monterrey quedan en "1-3".
+
+## Sin verificar
+- La operación actual de la terminal antigua de Yopal.
+- Si Gaula ocupa una sede propia.
+- Policía 11 en Yopal, que puede estar inflado igual que las demás categorías y no se auditó.
+- Subregistro OSM de juzgados y fiscalías fuera de Yopal: su ausencia en el mapa no significa que no existan.
+- El PNG de matplotlib `GRAFICAS_Institucional_Casanare6.png` no se regeneró (index.html usa Chart.js).
